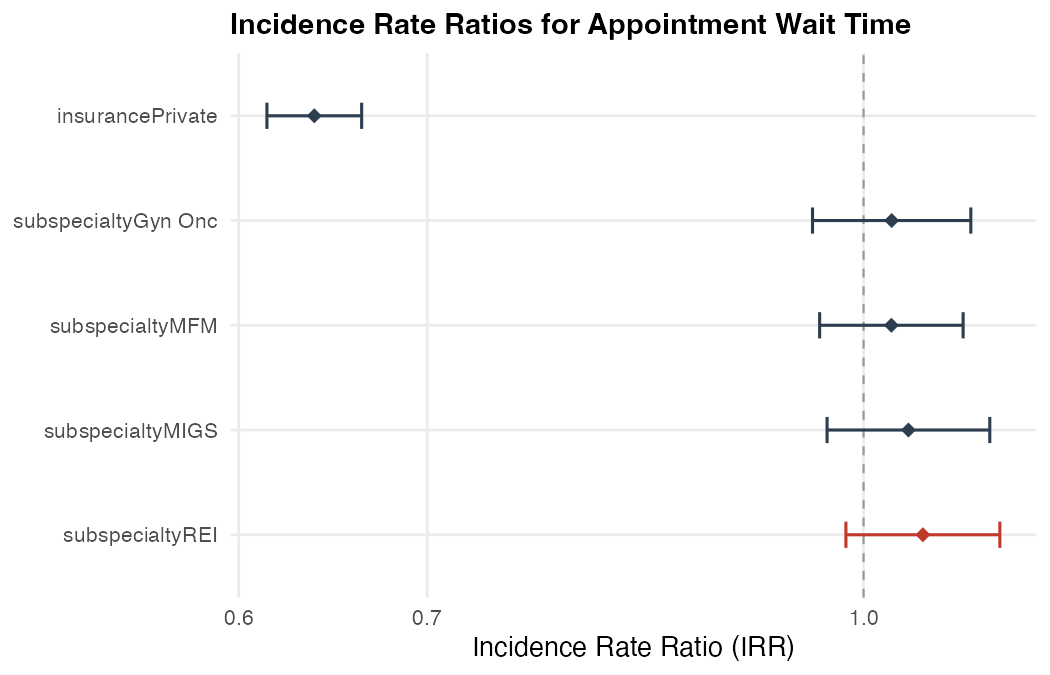
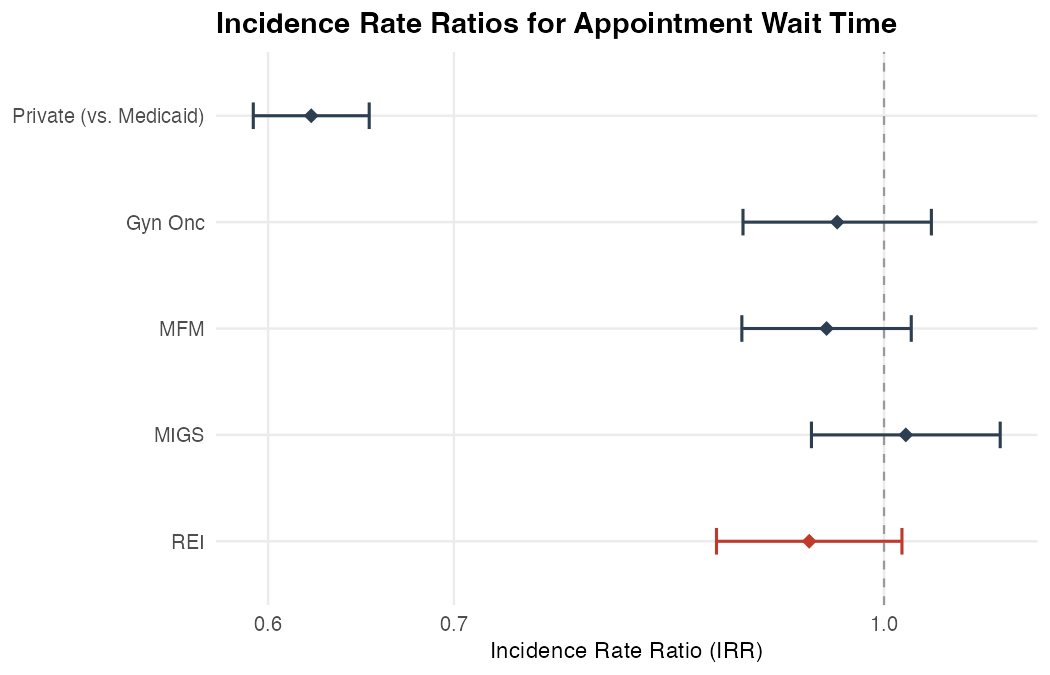
Deploying to gh-pages from @ mufflyt/mysterycall@b0dfd4a41b986ea631dee666b0ecbfef2aed74d8 🚀

diff --git a/reference/mysterycall_progress_summary.html b/reference/mysterycall_progress_summary.html
@@ -99,16 +99,16 @@
     <h2 id="ref-examples">Examples<a class="anchor" aria-label="anchor" href="#ref-examples"></a></h2>
     <div class="sourceCode"><pre class="sourceCode r"><code><span class="r-in"><span><span class="va">tr</span> <span class="op">&lt;-</span> <span class="fu"><a href="mysterycall_progress_tracker.html">mysterycall_progress_tracker</a></span><span class="op">(</span><span class="fu"><a href="https://rdrr.io/r/base/c.html" class="external-link">c</a></span><span class="op">(</span><span class="st">"Geocode"</span>, <span class="st">"Validate"</span><span class="op">)</span>, update_every <span class="op">=</span> <span class="fl">1e9</span><span class="op">)</span></span></span>
 <span class="r-in"><span><span class="fu"><a href="mysterycall_progress_start.html">mysterycall_progress_start</a></span><span class="op">(</span><span class="va">tr</span>, <span class="st">"Geocode"</span><span class="op">)</span></span></span>
-<span class="r-msg co"><span class="r-pr">#&gt;</span> [17:28:58] Started Geocode</span>
-<span class="r-msg co"><span class="r-pr">#&gt;</span> [17:28:58] Progress: 0/2 steps complete (0.0%)</span>
+<span class="r-msg co"><span class="r-pr">#&gt;</span> [17:38:33] Started Geocode</span>
+<span class="r-msg co"><span class="r-pr">#&gt;</span> [17:38:33] Progress: 0/2 steps complete (0.0%)</span>
 <span class="r-in"><span><span class="fu"><a href="mysterycall_progress_finish.html">mysterycall_progress_finish</a></span><span class="op">(</span><span class="va">tr</span>, <span class="st">"Geocode"</span>, score <span class="op">=</span> <span class="fl">0.95</span><span class="op">)</span></span></span>
-<span class="r-msg co"><span class="r-pr">#&gt;</span> [17:28:58] Completed Geocode (high)</span>
-<span class="r-msg co"><span class="r-pr">#&gt;</span> [17:28:58] Progress: 1/2 steps complete (50.0%)</span>
+<span class="r-msg co"><span class="r-pr">#&gt;</span> [17:38:33] Completed Geocode (high)</span>
+<span class="r-msg co"><span class="r-pr">#&gt;</span> [17:38:33] Progress: 1/2 steps complete (50.0%)</span>
 <span class="r-in"><span><span class="fu">mysterycall_progress_summary</span><span class="op">(</span><span class="va">tr</span><span class="op">)</span></span></span>
 <span class="r-out co"><span class="r-pr">#&gt;</span> <span style="color: #949494;"># A tibble: 2 × 6</span></span>
 <span class="r-out co"><span class="r-pr">#&gt;</span>   step     status    started_at          finished_at         quality note </span>
 <span class="r-out co"><span class="r-pr">#&gt;</span>   <span style="color: #949494; font-style: italic;">&lt;chr&gt;</span>    <span style="color: #949494; font-style: italic;">&lt;fct&gt;</span>     <span style="color: #949494; font-style: italic;">&lt;dttm&gt;</span>              <span style="color: #949494; font-style: italic;">&lt;dttm&gt;</span>              <span style="color: #949494; font-style: italic;">&lt;chr&gt;</span>   <span style="color: #949494; font-style: italic;">&lt;chr&gt;</span></span>
-<span class="r-out co"><span class="r-pr">#&gt;</span> <span style="color: #BCBCBC;">1</span> Geocode  completed 2026-05-10 <span style="color: #949494;">17:28:58</span> 2026-05-10 <span style="color: #949494;">17:28:58</span> high    <span style="color: #BB0000;">NA</span>   </span>
+<span class="r-out co"><span class="r-pr">#&gt;</span> <span style="color: #BCBCBC;">1</span> Geocode  completed 2026-05-10 <span style="color: #949494;">17:38:33</span> 2026-05-10 <span style="color: #949494;">17:38:33</span> high    <span style="color: #BB0000;">NA</span>   </span>
 <span class="r-out co"><span class="r-pr">#&gt;</span> <span style="color: #BCBCBC;">2</span> Validate pending   <span style="color: #BB0000;">NA</span>                  <span style="color: #BB0000;">NA</span>                  <span style="color: #BB0000;">NA</span>      <span style="color: #BB0000;">NA</span>   </span>
 </code></pre></div>
     </div>

diff --git a/reference/mysterycall_progress_tracker.html b/reference/mysterycall_progress_tracker.html
@@ -100,16 +100,16 @@ workflows.</p>
     <h2 id="ref-examples">Examples<a class="anchor" aria-label="anchor" href="#ref-examples"></a></h2>
     <div class="sourceCode"><pre class="sourceCode r"><code><span class="r-in"><span><span class="va">tracker</span> <span class="op">&lt;-</span> <span class="fu">mysterycall_progress_tracker</span><span class="op">(</span><span class="fu"><a href="https://rdrr.io/r/base/c.html" class="external-link">c</a></span><span class="op">(</span><span class="st">"Geocode"</span>, <span class="st">"Validate"</span><span class="op">)</span>, update_every <span class="op">=</span> <span class="fl">10</span><span class="op">)</span></span></span>
 <span class="r-in"><span><span class="fu"><a href="mysterycall_progress_start.html">mysterycall_progress_start</a></span><span class="op">(</span><span class="va">tracker</span>, <span class="st">"Geocode"</span><span class="op">)</span></span></span>
-<span class="r-msg co"><span class="r-pr">#&gt;</span> [17:28:58] Started Geocode</span>
-<span class="r-msg co"><span class="r-pr">#&gt;</span> [17:28:58] Progress: 0/2 steps complete (0.0%)</span>
+<span class="r-msg co"><span class="r-pr">#&gt;</span> [17:38:33] Started Geocode</span>
+<span class="r-msg co"><span class="r-pr">#&gt;</span> [17:38:33] Progress: 0/2 steps complete (0.0%)</span>
 <span class="r-in"><span><span class="fu"><a href="mysterycall_progress_finish.html">mysterycall_progress_finish</a></span><span class="op">(</span><span class="va">tracker</span>, <span class="st">"Geocode"</span>, score <span class="op">=</span> <span class="fl">0.92</span><span class="op">)</span></span></span>
-<span class="r-msg co"><span class="r-pr">#&gt;</span> [17:28:58] Completed Geocode (high)</span>
-<span class="r-msg co"><span class="r-pr">#&gt;</span> [17:28:58] Progress: 1/2 steps complete (50.0%)</span>
+<span class="r-msg co"><span class="r-pr">#&gt;</span> [17:38:33] Completed Geocode (high)</span>
+<span class="r-msg co"><span class="r-pr">#&gt;</span> [17:38:33] Progress: 1/2 steps complete (50.0%)</span>
 <span class="r-in"><span><span class="fu"><a href="mysterycall_progress_summary.html">mysterycall_progress_summary</a></span><span class="op">(</span><span class="va">tracker</span><span class="op">)</span></span></span>
 <span class="r-out co"><span class="r-pr">#&gt;</span> <span style="color: #949494;"># A tibble: 2 × 6</span></span>
 <span class="r-out co"><span class="r-pr">#&gt;</span>   step     status    started_at          finished_at         quality note </span>
 <span class="r-out co"><span class="r-pr">#&gt;</span>   <span style="color: #949494; font-style: italic;">&lt;chr&gt;</span>    <span style="color: #949494; font-style: italic;">&lt;fct&gt;</span>     <span style="color: #949494; font-style: italic;">&lt;dttm&gt;</span>              <span style="color: #949494; font-style: italic;">&lt;dttm&gt;</span>              <span style="color: #949494; font-style: italic;">&lt;chr&gt;</span>   <span style="color: #949494; font-style: italic;">&lt;chr&gt;</span></span>
-<span class="r-out co"><span class="r-pr">#&gt;</span> <span style="color: #BCBCBC;">1</span> Geocode  completed 2026-05-10 <span style="color: #949494;">17:28:58</span> 2026-05-10 <span style="color: #949494;">17:28:58</span> high    <span style="color: #BB0000;">NA</span>   </span>
+<span class="r-out co"><span class="r-pr">#&gt;</span> <span style="color: #BCBCBC;">1</span> Geocode  completed 2026-05-10 <span style="color: #949494;">17:38:33</span> 2026-05-10 <span style="color: #949494;">17:38:33</span> high    <span style="color: #BB0000;">NA</span>   </span>
 <span class="r-out co"><span class="r-pr">#&gt;</span> <span style="color: #BCBCBC;">2</span> Validate pending   <span style="color: #BB0000;">NA</span>                  <span style="color: #BB0000;">NA</span>                  <span style="color: #BB0000;">NA</span>      <span style="color: #BB0000;">NA</span>   </span>
 </code></pre></div>
     </div>

diff --git a/reference/mysterycall_progress_finish.html b/reference/mysterycall_progress_finish.html
@@ -123,11 +123,11 @@ provided.</p></dd>
     <h2 id="ref-examples">Examples<a class="anchor" aria-label="anchor" href="#ref-examples"></a></h2>
     <div class="sourceCode"><pre class="sourceCode r"><code><span class="r-in"><span><span class="va">tr</span> <span class="op">&lt;-</span> <span class="fu"><a href="mysterycall_progress_tracker.html">mysterycall_progress_tracker</a></span><span class="op">(</span><span class="fu"><a href="https://rdrr.io/r/base/c.html" class="external-link">c</a></span><span class="op">(</span><span class="st">"Geocode"</span><span class="op">)</span>, update_every <span class="op">=</span> <span class="fl">1e9</span><span class="op">)</span></span></span>
 <span class="r-in"><span><span class="fu"><a href="mysterycall_progress_start.html">mysterycall_progress_start</a></span><span class="op">(</span><span class="va">tr</span>, <span class="st">"Geocode"</span><span class="op">)</span></span></span>
-<span class="r-msg co"><span class="r-pr">#&gt;</span> [17:28:47] Started Geocode</span>
-<span class="r-msg co"><span class="r-pr">#&gt;</span> [17:28:47] Progress: 0/1 steps complete (0.0%)</span>
+<span class="r-msg co"><span class="r-pr">#&gt;</span> [17:38:22] Started Geocode</span>
+<span class="r-msg co"><span class="r-pr">#&gt;</span> [17:38:22] Progress: 0/1 steps complete (0.0%)</span>
 <span class="r-in"><span><span class="fu">mysterycall_progress_finish</span><span class="op">(</span><span class="va">tr</span>, <span class="st">"Geocode"</span>, score <span class="op">=</span> <span class="fl">0.92</span><span class="op">)</span></span></span>
-<span class="r-msg co"><span class="r-pr">#&gt;</span> [17:28:47] Completed Geocode (high)</span>
-<span class="r-msg co"><span class="r-pr">#&gt;</span> [17:28:47] Progress: 1/1 steps complete (100.0%)</span>
+<span class="r-msg co"><span class="r-pr">#&gt;</span> [17:38:22] Completed Geocode (high)</span>
+<span class="r-msg co"><span class="r-pr">#&gt;</span> [17:38:22] Progress: 1/1 steps complete (100.0%)</span>
 </code></pre></div>
     </div>
   </main><aside class="col-md-3"><nav id="toc" aria-label="Table of contents"><h2>On this page</h2>

diff --git a/reference/mysterycall_tracker_fail.html b/reference/mysterycall_tracker_fail.html
@@ -107,11 +107,11 @@
     <h2 id="ref-examples">Examples<a class="anchor" aria-label="anchor" href="#ref-examples"></a></h2>
     <div class="sourceCode"><pre class="sourceCode r"><code><span class="r-in"><span><span class="va">tr</span> <span class="op">&lt;-</span> <span class="fu"><a href="mysterycall_progress_tracker.html">mysterycall_progress_tracker</a></span><span class="op">(</span><span class="fu"><a href="https://rdrr.io/r/base/c.html" class="external-link">c</a></span><span class="op">(</span><span class="st">"Geocode"</span><span class="op">)</span>, update_every <span class="op">=</span> <span class="fl">1e9</span><span class="op">)</span></span></span>
 <span class="r-in"><span><span class="fu"><a href="mysterycall_progress_start.html">mysterycall_progress_start</a></span><span class="op">(</span><span class="va">tr</span>, <span class="st">"Geocode"</span><span class="op">)</span></span></span>
-<span class="r-msg co"><span class="r-pr">#&gt;</span> [17:29:07] Started Geocode</span>
-<span class="r-msg co"><span class="r-pr">#&gt;</span> [17:29:07] Progress: 0/1 steps complete (0.0%)</span>
+<span class="r-msg co"><span class="r-pr">#&gt;</span> [17:38:42] Started Geocode</span>
+<span class="r-msg co"><span class="r-pr">#&gt;</span> [17:38:42] Progress: 0/1 steps complete (0.0%)</span>
 <span class="r-in"><span><span class="fu">mysterycall_tracker_fail</span><span class="op">(</span><span class="va">tr</span>, <span class="st">"Geocode"</span>, reason <span class="op">=</span> <span class="st">"API timeout"</span><span class="op">)</span></span></span>
-<span class="r-msg co"><span class="r-pr">#&gt;</span> [17:29:07] Failed Geocode: API timeout</span>
-<span class="r-msg co"><span class="r-pr">#&gt;</span> [17:29:07] Progress: 0/1 steps complete (0.0%)</span>
+<span class="r-msg co"><span class="r-pr">#&gt;</span> [17:38:42] Failed Geocode: API timeout</span>
+<span class="r-msg co"><span class="r-pr">#&gt;</span> [17:38:42] Progress: 0/1 steps complete (0.0%)</span>
 </code></pre></div>
     </div>
   </main><aside class="col-md-3"><nav id="toc" aria-label="Table of contents"><h2>On this page</h2>

diff --git a/reference/mysterycall_progress_start.html b/reference/mysterycall_progress_start.html
@@ -107,8 +107,8 @@
     <h2 id="ref-examples">Examples<a class="anchor" aria-label="anchor" href="#ref-examples"></a></h2>
     <div class="sourceCode"><pre class="sourceCode r"><code><span class="r-in"><span><span class="va">tr</span> <span class="op">&lt;-</span> <span class="fu"><a href="mysterycall_progress_tracker.html">mysterycall_progress_tracker</a></span><span class="op">(</span><span class="fu"><a href="https://rdrr.io/r/base/c.html" class="external-link">c</a></span><span class="op">(</span><span class="st">"Geocode"</span>, <span class="st">"Validate"</span><span class="op">)</span>, update_every <span class="op">=</span> <span class="fl">1e9</span><span class="op">)</span></span></span>
 <span class="r-in"><span><span class="fu">mysterycall_progress_start</span><span class="op">(</span><span class="va">tr</span>, <span class="st">"Geocode"</span><span class="op">)</span></span></span>
-<span class="r-msg co"><span class="r-pr">#&gt;</span> [17:28:58] Started Geocode</span>
-<span class="r-msg co"><span class="r-pr">#&gt;</span> [17:28:58] Progress: 0/2 steps complete (0.0%)</span>
+<span class="r-msg co"><span class="r-pr">#&gt;</span> [17:38:33] Started Geocode</span>
+<span class="r-msg co"><span class="r-pr">#&gt;</span> [17:38:33] Progress: 0/2 steps complete (0.0%)</span>
 </code></pre></div>
     </div>
   </main><aside class="col-md-3"><nav id="toc" aria-label="Table of contents"><h2>On this page</h2>

diff --git a/reference/mysterycall_create_formula.html b/reference/mysterycall_create_formula.html
@@ -109,7 +109,7 @@ response variable, and optional random effect.</p>
 <span class="r-msg co"><span class="r-pr">#&gt;</span> Final formula object created: days ~ age + (1 | name)</span>
 <span class="r-in"><span><span class="va">formula</span></span></span>
 <span class="r-out co"><span class="r-pr">#&gt;</span> days ~ age + (1 | name)</span>
-<span class="r-out co"><span class="r-pr">#&gt;</span> &lt;environment: 0x55baae888380&gt;</span>
+<span class="r-out co"><span class="r-pr">#&gt;</span> &lt;environment: 0x557591418bd8&gt;</span>
 <span class="r-in"><span></span></span>
 </code></pre></div>
     </div>

diff --git a/reference/mysterycall_log_save.html b/reference/mysterycall_log_save.html
@@ -102,7 +102,7 @@
     <div class="section level2">
     <h2 id="ref-examples">Examples<a class="anchor" aria-label="anchor" href="#ref-examples"></a></h2>
     <div class="sourceCode"><pre class="sourceCode r"><code><span class="r-in"><span><span class="fu">mysterycall_log_save</span><span class="op">(</span><span class="fu"><a href="https://rdrr.io/r/base/tempfile.html" class="external-link">tempfile</a></span><span class="op">(</span>fileext <span class="op">=</span> <span class="st">".csv"</span><span class="op">)</span>, n_rows <span class="op">=</span> <span class="fl">42</span><span class="op">)</span></span></span>
-<span class="r-msg co"><span class="r-pr">#&gt;</span>   💾 Saved to: /tmp/Rtmp1YGHjh/file239c4dd86351.csv (42 rows)</span>
+<span class="r-msg co"><span class="r-pr">#&gt;</span>   💾 Saved to: /tmp/RtmpT5Aoj4/file239d64074de9.csv (42 rows)</span>
 </code></pre></div>
     </div>
   </main><aside class="col-md-3"><nav id="toc" aria-label="Table of contents"><h2>On this page</h2>

diff --git a/reference/mysterycall_log_step.html b/reference/mysterycall_log_step.html
@@ -109,7 +109,7 @@ formatted step header to the console.</p>
     <div class="sourceCode"><pre class="sourceCode r"><code><span class="r-in"><span><span class="fu"><a href="mysterycall_workflow_start.html">mysterycall_workflow_start</a></span><span class="op">(</span><span class="st">"Demo"</span>, total_steps <span class="op">=</span> <span class="fl">2</span><span class="op">)</span></span></span>
 <span class="r-msg co"><span class="r-pr">#&gt;</span> ============================================================</span>
 <span class="r-msg co"><span class="r-pr">#&gt;</span>   Demo</span>
-<span class="r-msg co"><span class="r-pr">#&gt;</span>   Started: 2026-05-10 17:28:20</span>
+<span class="r-msg co"><span class="r-pr">#&gt;</span>   Started: 2026-05-10 17:37:55</span>
 <span class="r-msg co"><span class="r-pr">#&gt;</span>   Total Steps: 2</span>
 <span class="r-msg co"><span class="r-pr">#&gt;</span> ============================================================</span>
 <span class="r-msg co"><span class="r-pr">#&gt;</span> </span>

diff --git a/reference/mysterycall_progress_bar.html b/reference/mysterycall_progress_bar.html
@@ -119,7 +119,7 @@ Uses the cli package for cross-platform compatibility and beautiful output.</p>
 <span class="r-msg co"><span class="r-pr">#&gt;</span>   Progress: 10/100 (10%) - ETA: 9.0s</span>
 <span class="r-msg co"><span class="r-pr">#&gt;</span>   Progress: 20/100 (20%) - ETA: 8.0s</span>
 <span class="r-msg co"><span class="r-pr">#&gt;</span>   Progress: 30/100 (30%) - ETA: 7.0s</span>
-<span class="r-msg co"><span class="r-pr">#&gt;</span>   Progress: 40/100 (40%) - ETA: 6.0s</span>
+<span class="r-msg co"><span class="r-pr">#&gt;</span>   Progress: 40/100 (40%) - ETA: 6.1s</span>
 <span class="r-msg co"><span class="r-pr">#&gt;</span>   Progress: 50/100 (50%) - ETA: 5.0s</span>
 <span class="r-msg co"><span class="r-pr">#&gt;</span>   Progress: 60/100 (60%) - ETA: 4.0s</span>
 <span class="r-msg co"><span class="r-pr">#&gt;</span>   Progress: 70/100 (70%) - ETA: 3.0s</span>

diff --git a/reference/mysterycall_tracker_update.html b/reference/mysterycall_tracker_update.html
@@ -104,7 +104,7 @@ even if the configured interval has not elapsed.</p></dd>
     <h2 id="ref-examples">Examples<a class="anchor" aria-label="anchor" href="#ref-examples"></a></h2>
     <div class="sourceCode"><pre class="sourceCode r"><code><span class="r-in"><span><span class="va">tr</span> <span class="op">&lt;-</span> <span class="fu"><a href="mysterycall_progress_tracker.html">mysterycall_progress_tracker</a></span><span class="op">(</span><span class="fu"><a href="https://rdrr.io/r/base/c.html" class="external-link">c</a></span><span class="op">(</span><span class="st">"Geocode"</span><span class="op">)</span>, update_every <span class="op">=</span> <span class="fl">1e9</span><span class="op">)</span></span></span>
 <span class="r-in"><span><span class="fu">mysterycall_tracker_update</span><span class="op">(</span><span class="va">tr</span>, force <span class="op">=</span> <span class="cn">TRUE</span><span class="op">)</span></span></span>
-<span class="r-msg co"><span class="r-pr">#&gt;</span> [17:29:07] Progress: 0/1 steps complete (0.0%)</span>
+<span class="r-msg co"><span class="r-pr">#&gt;</span> [17:38:42] Progress: 0/1 steps complete (0.0%)</span>
 </code></pre></div>
     </div>
   </main><aside class="col-md-3"><nav id="toc" aria-label="Table of contents"><h2>On this page</h2>

diff --git a/reference/mysterycall_workflow_start.html b/reference/mysterycall_workflow_start.html
@@ -109,7 +109,7 @@ workflow header to the console.</p>
     <div class="sourceCode"><pre class="sourceCode r"><code><span class="r-in"><span><span class="fu">mysterycall_workflow_start</span><span class="op">(</span><span class="st">"Demo Workflow"</span>, total_steps <span class="op">=</span> <span class="fl">3</span><span class="op">)</span></span></span>
 <span class="r-msg co"><span class="r-pr">#&gt;</span> ============================================================</span>
 <span class="r-msg co"><span class="r-pr">#&gt;</span>   Demo Workflow</span>
-<span class="r-msg co"><span class="r-pr">#&gt;</span>   Started: 2026-05-10 17:29:09</span>
+<span class="r-msg co"><span class="r-pr">#&gt;</span>   Started: 2026-05-10 17:38:44</span>
 <span class="r-msg co"><span class="r-pr">#&gt;</span>   Total Steps: 3</span>
 <span class="r-msg co"><span class="r-pr">#&gt;</span> ============================================================</span>
 <span class="r-msg co"><span class="r-pr">#&gt;</span> </span>

diff --git a/reference/mysterycall_progress_summary.md b/reference/mysterycall_progress_summary.md
@@ -43,15 +43,15 @@ Other logging utilities:
 ``` r
 tr <- mysterycall_progress_tracker(c("Geocode", "Validate"), update_every = 1e9)
 mysterycall_progress_start(tr, "Geocode")
-#> [17:28:58] Started Geocode
-#> [17:28:58] Progress: 0/2 steps complete (0.0%)
+#> [17:38:33] Started Geocode
+#> [17:38:33] Progress: 0/2 steps complete (0.0%)
 mysterycall_progress_finish(tr, "Geocode", score = 0.95)
-#> [17:28:58] Completed Geocode (high)
-#> [17:28:58] Progress: 1/2 steps complete (50.0%)
+#> [17:38:33] Completed Geocode (high)
+#> [17:38:33] Progress: 1/2 steps complete (50.0%)
 mysterycall_progress_summary(tr)
 #> # A tibble: 2 × 6
 #>   step     status    started_at          finished_at         quality note 
 #>   <chr>    <fct>     <dttm>              <dttm>              <chr>   <chr>
-#> 1 Geocode  completed 2026-05-10 17:28:58 2026-05-10 17:28:58 high    NA   
+#> 1 Geocode  completed 2026-05-10 17:38:33 2026-05-10 17:38:33 high    NA   
 #> 2 Validate pending   NA                  NA                  NA      NA   
 ```